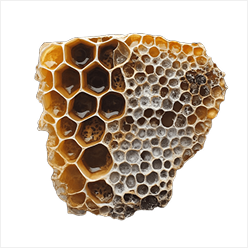
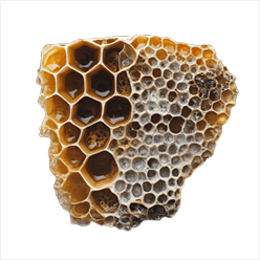
бут +

diff --git a/Project/landing.html b/Project/landing.html
@@ -3,6 +3,7 @@
 <head>
     <meta charset="UTF-8">
     <title>Главная страница - Частная пасека 3ПОИС23</title>
+    <meta name="description" content="Частная пасека 3ПОИС23 — натуральный мёд и продукты пчеловодства. Доставка по Беларуси.">
     
     <link rel="stylesheet" href="css bootstrap/bootstrap.min.css">
     <link rel="stylesheet" href="https://cdnjs.cloudflare.com/ajax/libs/font-awesome/4.7.0/css/font-awesome.min.css">
@@ -12,7 +13,8 @@
     <style>
         .carousel-inner > .item > img {
             width: 100%;
-            height: auto;
+            height: 600px;
+            object-fit: cover;
         }
         .carousel-caption {
             background: rgba(0,0,0,0.5);
@@ -22,15 +24,8 @@
             margin-bottom: 20px;
             text-align: center;
         }
-        .product-card img {
-            max-width: 100%;
-            height: auto;
-        }
-        .footer-links {
-            margin-top: 20px;
-        }
         @media (max-width: 768px) {
-            .carousel-caption h3 {
+            .carousel-caption h2 {
                 font-size: 14px;
             }
             .carousel-caption p {
@@ -42,6 +37,14 @@
             height: 150px;
             object-fit: contain;
         }
+
+        .honey-panel {
+            background: #FFF9E6;
+            border-radius: 20px;
+            padding: 30px;
+            margin: 20px 0;
+            box-shadow: 4px 8px 12px rgba(255, 193, 7, 0.45);
+}
     </style>
 </head>
 <body>
@@ -56,32 +59,32 @@
                 <span class="icon-bar"></span>
             </button>
             <a class="navbar-brand" href="#">
-                <img src="images/logo-placeholder.png" alt="лого" width="30" style="display: inline-block;">
-                <span style="vertical-align: middle;">Частная пасека 3ПОИС23</span>
+                <img src="images/logo-placeholder.png" alt="лого" width="32" height="32" style="display: inline-block;">
+                <span style="vertical-align: middle; color: #1a1a1a;">Частная пасека 3ПОИС23</span>
             </a>
         </div>
 
         <div class="collapse navbar-collapse" id="bs-main-navbar">
             <ul class="nav navbar-nav">
-                <li class="active"><a href="landing.html">Главная</a></li>
-                <li><a href="catalog.html">Каталог</a></li>
-                <li><a href="#warranty">Гарантия</a></li>
-                <li><a href="#reviews">Отзывы</a></li>
-                <li><a href="#contacts">Контакты</a></li>
-                <li><a href="catalog.html#how-to-choose-honey">Как выбрать мед?</a></li>
+                <li class="active"><a href="landing.html" style="color: #1a1a1a;">Главная</a></li>
+                <li><a href="catalog.html" style="color: #1a1a1a;">Каталог</a></li>
+                <li><a href="#warranty" style="color: #1a1a1a;">Гарантия</a></li>
+                <li><a href="#reviews" style="color: #1a1a1a;">Отзывы</a></li>
+                <li><a href="#contacts" style="color: #1a1a1a;">Контакты</a></li>
+                <li><a href="catalog.html#how-to-choose-honey" style="color: #1a1a1a;">Как выбрать мед?</a></li>
             </ul>
             <form class="navbar-form navbar-right">
                 <div class="input-group">
-                    <input type="text" class="form-control" placeholder="Поиск...">
+                    <input type="text" class="form-control" placeholder="Поиск..." aria-label="Поиск">
                     <span class="input-group-btn">
-                        <button class="btn btn-default" type="button">
+                        <button class="btn btn-default" type="button" aria-label="Поиск">
                             <i class="fa fa-search"></i>
                         </button>
                     </span>
                 </div>
             </form>
             <ul class="nav navbar-nav navbar-right">
-                <li><a href="#"><i class="fa fa-shopping-cart"></i> Корзина <span class="badge">1</span></a></li>
+                <li><a href="#" style="color: #1a1a1a;"><i class="fa fa-shopping-cart"></i> Корзина <span class="badge">1</span></a></li>
             </ul>
         </div>
     </div>
@@ -92,7 +95,7 @@
         <div class="col-sm-4 text-center">
             <i class="fa fa-phone fa-2x" style="color: #ffc107;"></i>
             <strong>[phone redacted]</strong>
-            <small class="text-muted"><br>Принимаем звонки с 8 до 16</small>
+            <small style="color: #555555;"><br>Принимаем звонки с 8 до 16</small>
         </div>
         <div class="col-sm-4 text-center">
             <i class="fa fa-envelope fa-2x" style="color: #ffc107;"></i>
@@ -101,7 +104,7 @@
         <div class="col-sm-4 text-center">
             <i class="fa fa-share-alt fa-2x" style="color: #ffc107;"></i>
             <div>
-                <a href="#">В КОРЗИНУ</a> | <a href="#">ПОДЕЛИТЬСЯ</a>
+                <a href="#" style="color: #0066cc;">В КОРЗИНУ</a> | <a href="#" style="color: #0066cc;">ПОДЕЛИТЬСЯ</a>
             </div>
         </div>
     </div>
@@ -110,17 +113,18 @@
 <div class="container-fluid" style="background-color: #ffc107; padding: 15px 0; margin-bottom: 30px;">
     <div class="container">
         <ol class="breadcrumb" style="background: none; margin-bottom: 5px; padding-left: 0;">
-            <li class="active">Главная</li>
+            <li class="active" style="color: #1a1a1a;">Главная</li>
         </ol>
-        <h1 class="text-center" style="margin-top: 5px;">НАТУРАЛЬНЫЙ МЁД ОТ ПЧЕЛОВОДА</h1>
+        <h1 style="margin-top: 5px;">НАТУРАЛЬНЫЙ МЁД ОТ ПЧЕЛОВОДА</h1>
     </div>
 </div>
 
+<main>
 <div class="container">
 
     <!-- карусель -->
     <div class="row">
-        <div class="col-md-12">
+        <div class="honey-panel" >
             <div id="honeyCarousel" class="carousel slide" data-ride="carousel">
                 <ol class="carousel-indicators">
                     <li data-target="#honeyCarousel" data-slide-to="0" class="active"></li>
@@ -128,21 +132,21 @@
                 </ol>
 
                 <!-- слайды -->
-                <div class="carousel-inner" role="listbox">
-                    <div class="item active">
-                        <img src="images/jars of honey.png" alt="Натуральный мёд">
-                        <div class="carousel-caption">
-                            <h3>Натуральный мёд</h3>
-                            <p>Без добавок и консервантов</p>
-                        </div>
+                <div class="carousel-inner">
+                <div class="item active">
+                    <img src="images/sl1.jpg" alt="Слайд карусели1">
+                    <div class="carousel-caption">
+                        <h2>Натуральный мёд</h2>
+                        <p>Без добавок и консервантов</p>
                     </div>
-                    <div class="item">
-                        <img src="images/The beekeeper.png" alt="Пасечник">
-                        <div class="carousel-caption">
-                            <h3>32 года опыта</h3>
-                            <p>Любимое дело всей жизни</p>
-                        </div>
+                </div>
+                <div class="item">
+                    <img src="images/sl2.jpg" alt="Слайд карусели2">
+                    <div class="carousel-caption">
+                        <h2>32 года опыта</h2>
+                        <p>Любимое дело всей жизни</p>
                     </div>
+                </div>
                 </div>
 
                 <!-- стрелки управ-->
@@ -180,22 +184,20 @@
     <div class="row">
         <div class="col-md-12 text-center">
             <h2><i class="fa fa-gift"></i> Спецпредложение</h2>
-            <img src="images/special offer.png" alt="Спецпредложение" class="img-responsive center-block">
+            <img src="images/special offer.png" alt="Спецпредложение" class="img-responsive center-block" width="600" height="400">
         </div>
     </div>
 
     <!-- о нас -->
-    <div class="row" style="margin: 40px 0;">
-    <div class="col-md-8 col-md-offset-2">
-        <div class="row">
-            <div class="col-md-6">
-                <h2><i class="fa fa-info-circle"></i> О нас</h2>
-                <p>Пасека - это, без преувеличения, вся моя жизнь. Основа, опора и любимое дело, без которого я уже не могу себя представить. Пчёлами я занимаюсь уже 32 года, хотя началось всё гораздо раньше.</p>
-                <p>Я счастливый человек, ведь моя работа - это моё любимое дело. И я с удовольствием делюсь плодами своего труда с вами. Всю зиму вы можете видеть меня на рынке «Юбилейном», здесь я в любую погоду, каждый день, кроме понедельника. И самое главное: за качество мёда я отвечаю.</p>
-            </div>
-            <div class="col-md-6" style="display:flex; justify-content:center; padding-top: 50px;">
-                <img src="images/The beekeeper.png" alt="Пасека" class="img-responsive" width="345" height="245">
-            </div>
+   <div class="honey-panel" style="margin: 40px 40px; padding: 40px 40px;">
+    <div class="row">
+        <div class="col-md-6">
+            <h2><i class="fa fa-info-circle"></i> О нас</h2>
+            <p>Пасека - это, без преувеличения, вся моя жизнь. Основа, опора и любимое дело, без которого я уже не могу себя представить. Пчёлами я занимаюсь уже 32 года, хотя началось всё гораздо раньше.</p>
+            <p>Я счастливый человек, ведь моя работа - это моё любимое дело. И я с удовольствием делюсь плодами своего труда с вами. Всю зиму вы можете видеть меня на рынке «Юбилейном», здесь я в любую погоду, каждый день, кроме понедельника. И самое главное: за качество мёда я отвечаю.</p>
+        </div>
+        <div class="col-md-6">
+            <img src="images/The beekeeper.png" alt="Пасека" class="img-responsive" width="345" height="245" style="margin-top: 20px; display: block; margin-left: auto;">
         </div>
     </div>
     </div>
@@ -207,29 +209,29 @@
         </div>
     </div>
     
-    <div class="row text-center">
-        <div class="col-sm-6 col-md-2 product-card">
-            <a href="catalog.html">
-                <img src="images/honeyс.png" alt="Пчелиный мёд" class="img-responsive center-block">
-            </a>
-            <span>Пчелиный мёд</span>
-        </div>
-        <div class="col-sm-6 col-md-2 product-card">
-            <img src="images/waxс.png" alt="Пчелиный воск" class="img-responsive center-block">
-            <span>Пчелиный воск</span>
-        </div>
-        <div class="col-sm-6 col-md-2 product-card">
-            <img src="images/ulyс.png" alt="Улья" class="img-responsive center-block">
-            <span>Улья</span>
-        </div>
-        <div class="col-sm-6 col-md-2 product-card">
-            <img src="images/frameс.png" alt="Рамки для ульев" class="img-responsive center-block">
-            <span>Рамки для ульев</span>
-        </div>
-        <div class="col-sm-12 col-md-4 product-card">
-            <img src="images/propolisс.png" alt="Прополис" class="img-responsive center-block">
-            <span>Прополис</span>
-        </div>
+    <div class="row" style="display: flex; flex-wrap: wrap; justify-content: center;">
+    <div class="col-sm-6 col-md-2 product-card">
+        <a href="catalog.html">
+            <img src="images/honeyс.png" alt="Пчелиный мёд" class="img-responsive center-block">
+        </a>
+        <span>Пчелиный мёд</span>
+    </div>
+    <div class="col-sm-6 col-md-2 product-card">
+        <img src="images/waxс.png" alt="Пчелиный воск" class="img-responsive center-block">
+        <span>Пчелиный воск</span>
+    </div>
+    <div class="col-sm-6 col-md-2 product-card">
+        <img src="images/ulyс.png" alt="Улья" class="img-responsive center-block">
+        <span>Улья</span>
+    </div>
+    <div class="col-sm-6 col-md-2 product-card">
+        <img src="images/frameс.jpg" alt="Рамки для ульев" class="img-responsive center-block">
+        <span>Рамки для ульев</span>
+    </div>
+    <div class="col-sm-6 col-md-2 product-card">
+        <img src="images/propolisс.jpg" alt="Прополис" class="img-responsive center-block">
+        <span>Прополис</span>
+    </div>
     </div>
 
     <hr>
@@ -245,6 +247,7 @@
         <div class="row text-center" style="margin: 20px 0;">
             <div class="col-xs-6">
                 <button class="btn btn-primary btn-block"><i class="fa fa-arrow-left"></i> Назад</button>
+
             </div>
             <div class="col-xs-6">
                 <button class="btn btn-primary btn-block">Вперед <i class="fa fa-arrow-right"></i></button>
@@ -293,33 +296,36 @@
         
         <div class="row text-center" style="margin: 20px 0;">
             <div class="col-xs-6">
-                <button class="btn btn-success btn-block"><i class="fa fa-arrow-left"></i> Назад</button>
+                <button class="btn btn-success btn-block" style="background-color: #1e7e34">Назад</button>
             </div>
             <div class="col-xs-6">
-                <button class="btn btn-success btn-block">Вперед <i class="fa fa-arrow-right"></i></button>
+                <button class="btn btn-success btn-block" style="background-color: #1e7e34">Вперед</button>
             </div>
         </div>
 
+        <div class="honey-panel">
         <div class="row text-center">
             <div class="col-sm-4">
-                <img src="images/sertifikat.png" alt="Сертификат1" class="img-responsive center-block" style="max-width: 200px;">
+                <img src="images/sertifikat.png" alt="Сертификат1" class="img-responsive center-block" width="200" height="280" style="max-width: 200px;">
                 <br>
-                <span class="label label-info">Сертификат1</span>
+                <span class="label label-info" style="background-color: #0066aa;">Сертификат1</span>
             </div>
             <div class="col-sm-4">
-                <img src="images/sertifikat.png" alt="Сертификат2" class="img-responsive center-block" style="max-width: 200px;">
+                <img src="images/sertifikat.png" alt="Сертификат2" class="img-responsive center-block" width="200" height="280" style="max-width: 200px;">
                 <br>
-                <span class="label label-info">Сертификат2</span>
+                <span class="label label-info" style="background-color: #0066aa;">Сертификат2</span>
             </div>
             <div class="col-sm-4">
-                <img src="images/sertifikat.png" alt="Сертификат3" class="img-responsive center-block" style="max-width: 200px;">
+                <img src="images/sertifikat.png" alt="Сертификат3" class="img-responsive center-block" width="200" height="280" style="max-width: 200px;">
                 <br>
-                <span class="label label-info">Сертификат3</span>
+                <span class="label label-info" style="background-color: #0066aa;">Сертификат3</span>
             </div>
+        </div>
         </div>
     </div>
 
 </div>
+</main>
 
 <!-- реклама (промо тикер использ) -->
 <div class="container-fluid" style="background-color: #333; color: #fff; padding: 10px 0; margin: 40px 0 0 0;">
@@ -336,13 +342,13 @@
 
 <footer id="contacts">
     <div>
-        <img src="images/honey-drops.png" width="100%" height="200" alt="Подтеки меда">
+        <img src="images/honey-drops.png" width="1157" height="205" alt="Подтеки меда" style="width: 100%; height: auto;">
     </div>
     <div class="container-fluid" style="background-color: #2c2c2c; color: #fff; padding: 30px 0;">
         <div class="container">
             <div class="row text-center">
                 <div class="col-sm-4">
-                    <img src="images/logo-placeholder.png" width="80" alt="Лого">
+                    <img src="images/logo-placeholder.png" width="80" height="80" alt="Лого">
                     <div>
                         <strong>Частная пасека<br>ЗПОИС23</strong>
                     </div>